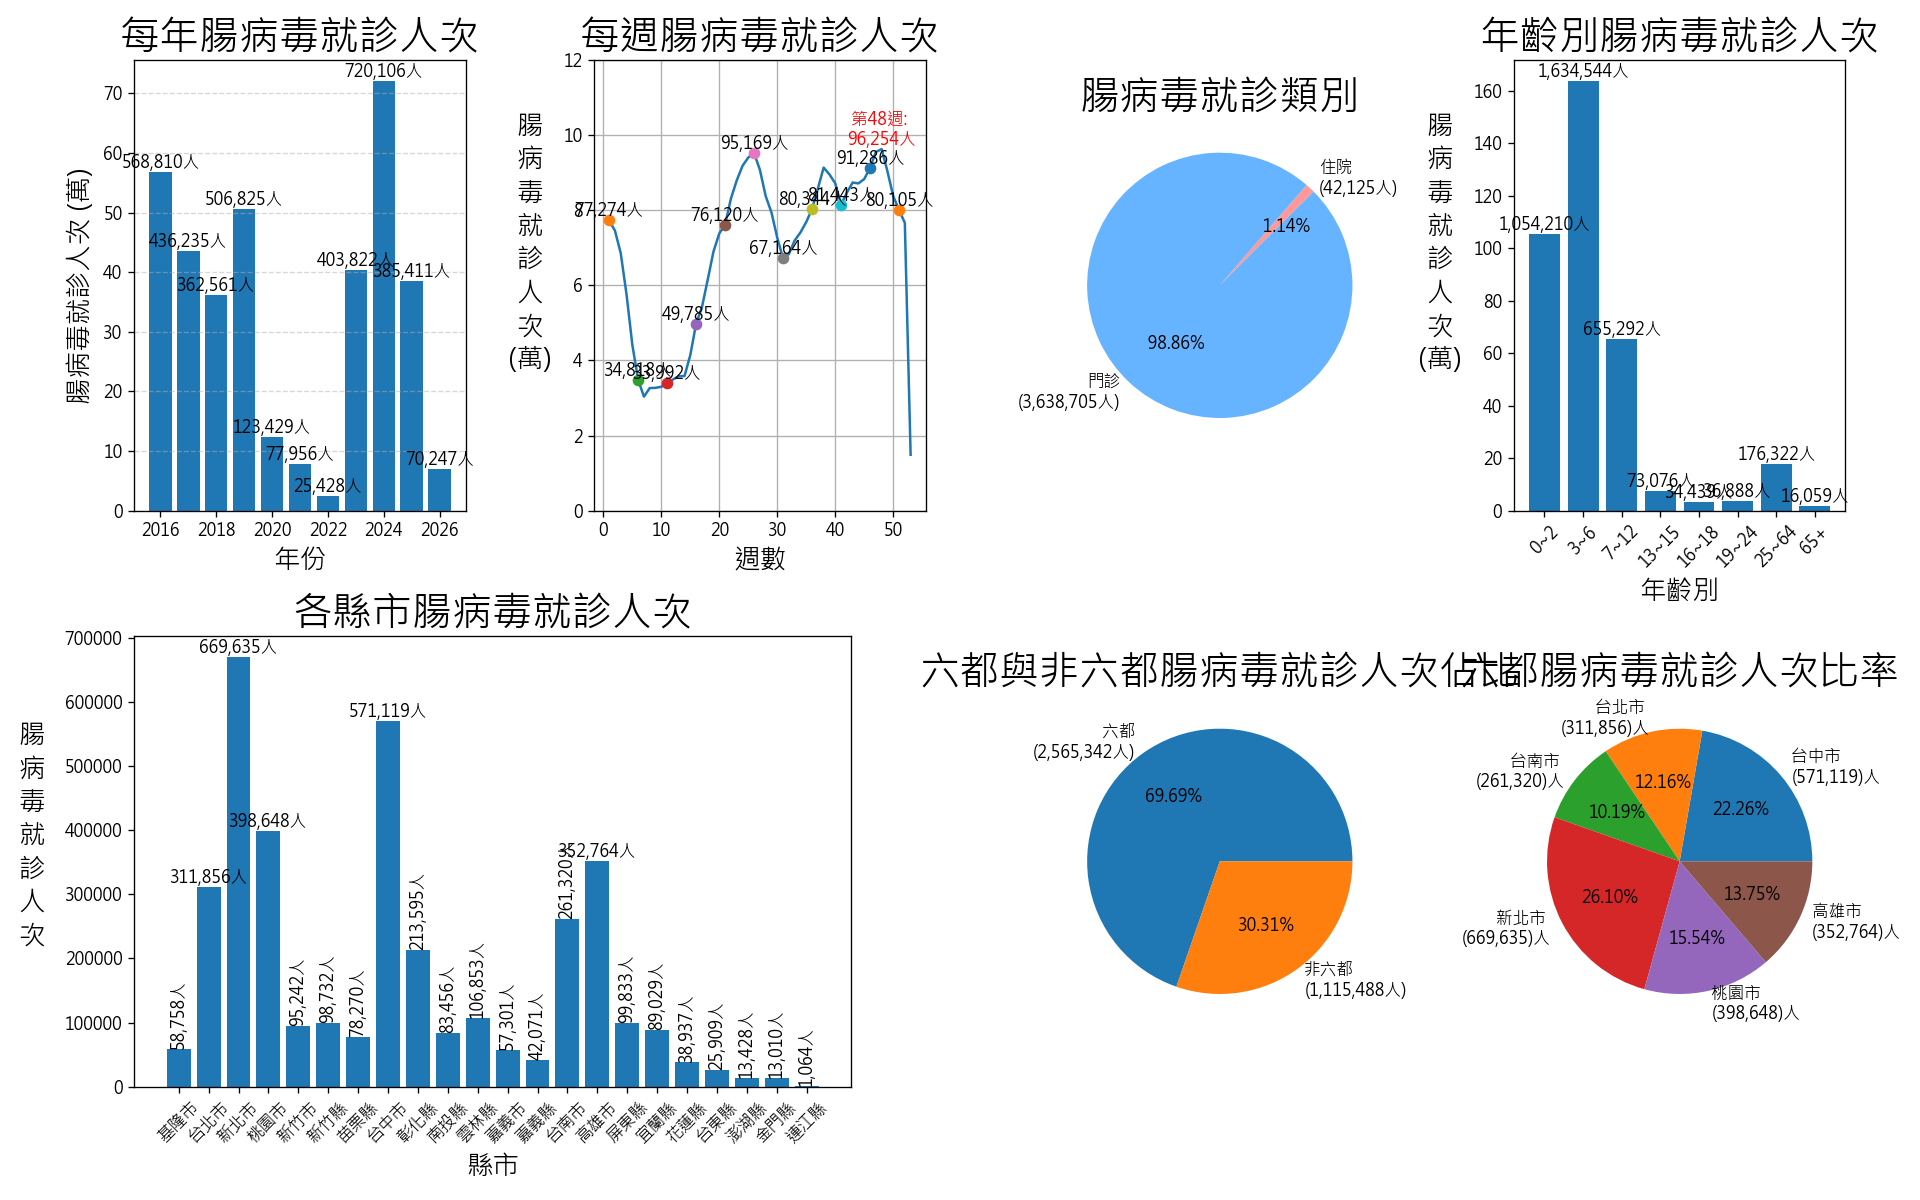
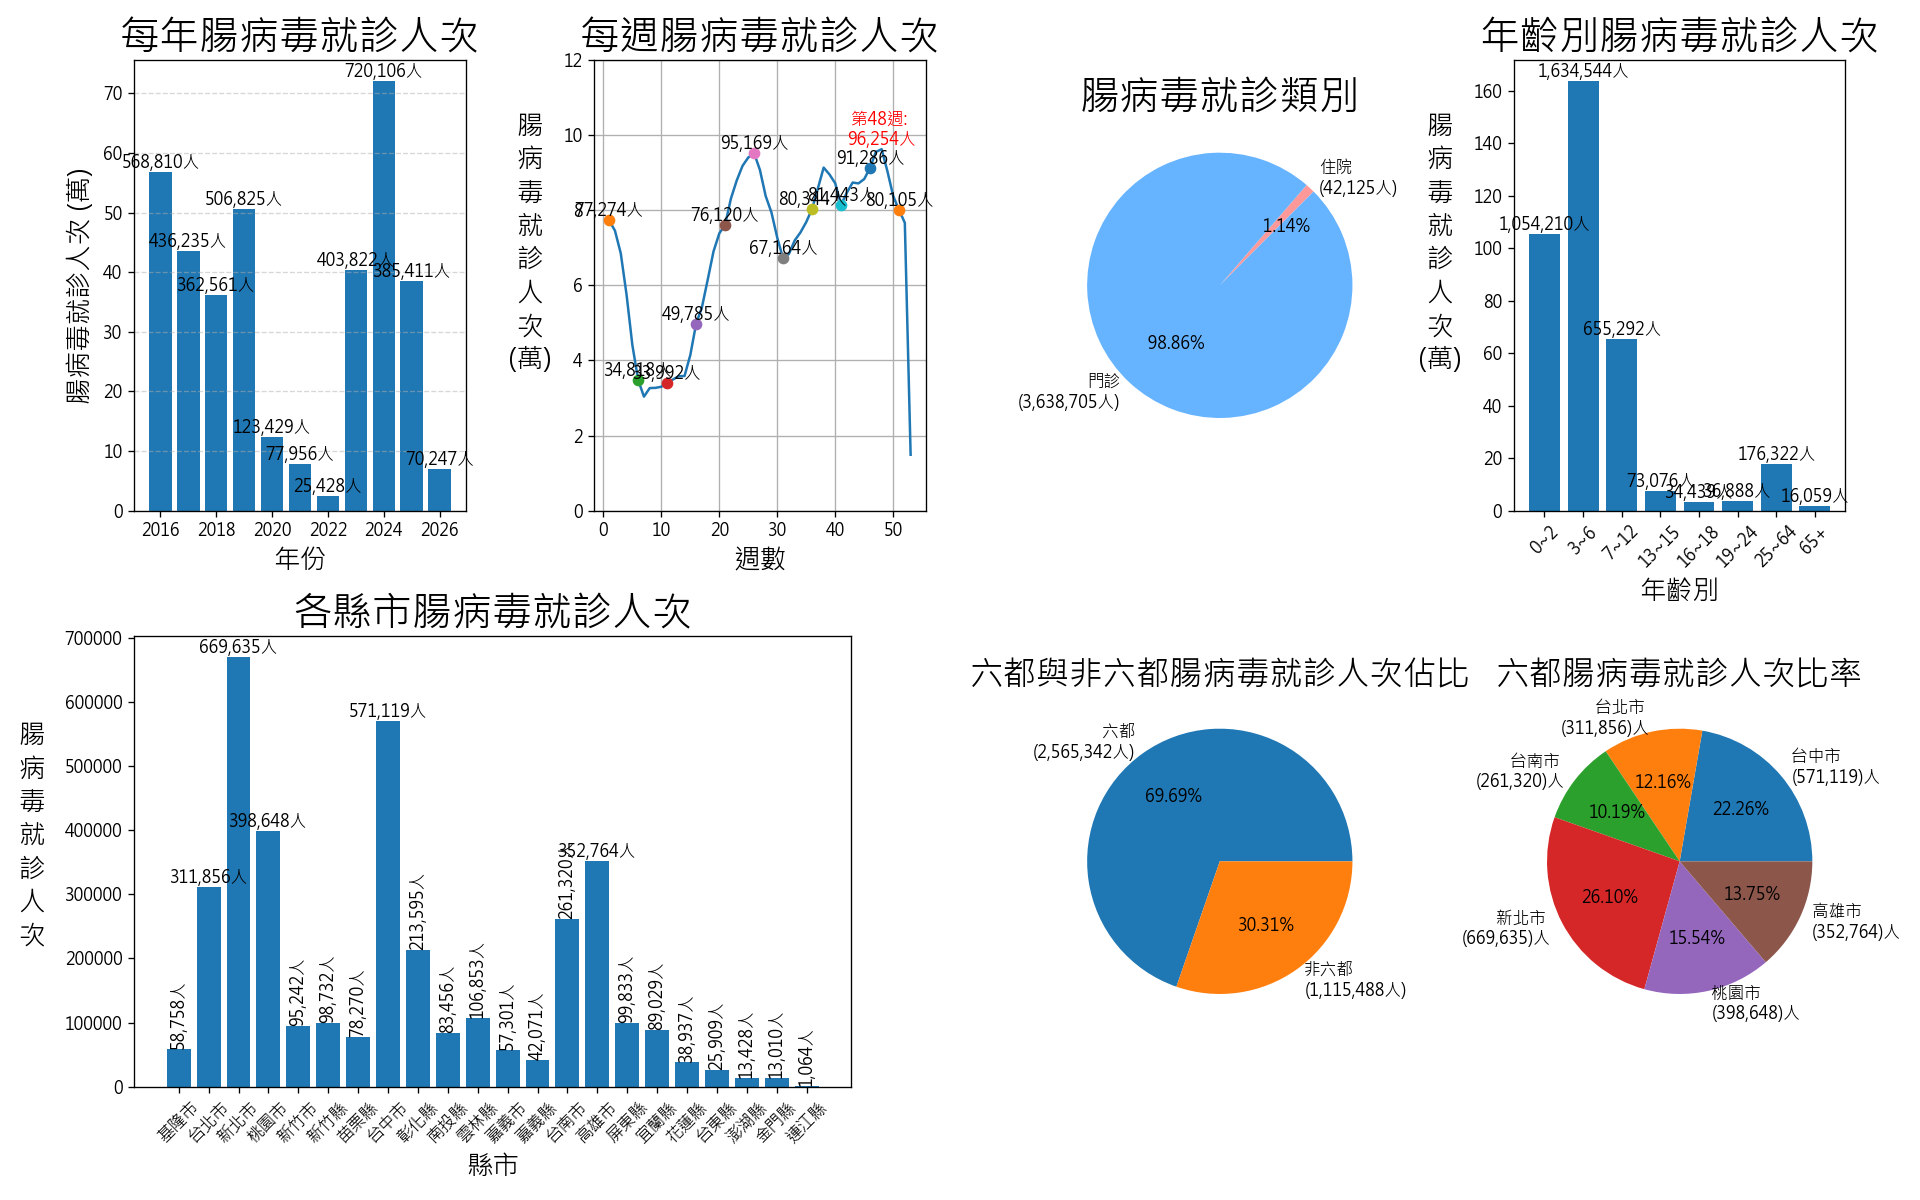
優化圖片

Changed region(s): [[0.5, 0.5242, 1.0, 0.5858]]

diff --git a/腸病毒01.py b/腸病毒01.py
@@ -166,7 +166,7 @@ df["六都"] = df["縣市"].apply(
 s6 = df.groupby("六都")["腸病毒健保就診人次"].sum()
 labels = [f"{idx}\n({val:,}人)" for idx, val in s6.items()]
 plt.pie(s6.values, labels=labels, autopct="%.2f%%")
-plt.title("六都與非六都腸病毒就診人次佔比", fontsize=24)
+plt.title("六都與非六都腸病毒就診人次佔比", fontsize=20)
 
 
 # 7.各六都腸病毒就診人次比率畫成圓餅圖
@@ -174,7 +174,7 @@ plt.subplot(248)
 s7 = df[df["六都"] == "六都"].groupby("縣市")["腸病毒健保就診人次"].sum()
 labels = [f"{idx} \n({val:,})人" for idx, val in s7.items()]
 plt.pie(s7.values, labels=labels, autopct="%.2f%%")
-plt.title("六都腸病毒就診人次比率", fontsize=24)
+plt.title("六都腸病毒就診人次比率", fontsize=20)
 
 plt.tight_layout()
 plt.savefig("腸病毒就診統計資料.png")